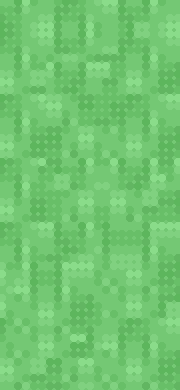
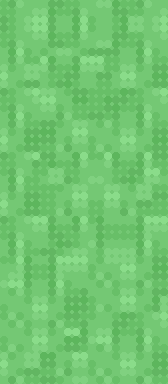
Rolling numbers and bg movement initialized

diff --git a/frontend/app/pages/LoginPage.tsx b/frontend/app/pages/LoginPage.tsx
@@ -7,9 +7,13 @@ import { SettingsPage } from "./SettingsPage";
 import {
   Canvas,
   Image,
+  ImageShader,
+  Rect,
+  Offset,
   FilterMode,
   MipmapMode,
 } from "@shopify/react-native-skia";
+import { withTiming, Easing, useDerivedValue, useSharedValue } from "react-native-reanimated";
 import { SafeAreaView } from "react-native-safe-area-context";
 
 export const LoginPage: React.FC = () => {
@@ -29,38 +33,112 @@ export const LoginPage: React.FC = () => {
     setCurrentPage(page as keyof typeof loginPages);
   };
 
+  const bgOffsetX = useSharedValue(0);
+  const bgOffsetY = useSharedValue(0);
+  // Every 3-5 seconds choose a new background offset
+  React.useEffect(() => {
+    const minTravelTime = 5000;
+    const maxTravelTime = 8000;
+    let travelDuration = minTravelTime + Math.random() * (maxTravelTime - minTravelTime);
+    const travelDistance = width * (travelDuration / maxTravelTime);
+    const travelDirectionRadians = Math.random() * 2 * Math.PI;
+    const travelDirectionX = Math.cos(travelDirectionRadians) * travelDistance;
+    const travelDirectionY = Math.sin(travelDirectionRadians) * travelDistance;
+    const newOffsetX = withTiming(bgOffsetX.value + travelDirectionX, { duration: travelDuration, easing: Easing.bezier(0.55, -0.33, 0.71, 1.03) });
+    const newOffsetY = withTiming(bgOffsetY.value + travelDirectionY, { duration: travelDuration, easing: Easing.bezier(0.55, -0.33, 0.71, 1.03) });
+    bgOffsetX.value = newOffsetX;
+    bgOffsetY.value = newOffsetY;
+
+    const interval = setInterval(() => {
+      travelDuration = minTravelTime + Math.random() * (maxTravelTime - minTravelTime);
+      const travelDistance = width * (travelDuration / maxTravelTime);
+      const travelDirectionRadians = Math.random() * 2 * Math.PI;
+      const travelDirectionX = Math.cos(travelDirectionRadians) * travelDistance;
+      const travelDirectionY = Math.sin(travelDirectionRadians) * travelDistance;
+      bgOffsetX.value = withTiming(bgOffsetX.value + travelDirectionX, { duration: travelDuration, easing: Easing.bezier(0.55, -0.33, 0.71, 1.03) });
+      bgOffsetY.value = withTiming(bgOffsetY.value + travelDirectionY, { duration: travelDuration, easing: Easing.bezier(0.55, -0.33, 0.71, 1.03) });
+    }, travelDuration); 
+    return () => clearInterval(interval);
+  }, [bgOffsetX, bgOffsetY, width]);
+
+  const animatedRect = useDerivedValue(() => {
+    return {
+      x: bgOffsetX.value,
+      y: bgOffsetY.value,
+      width: width,
+      height: height,
+    };
+  });
+
+  const bgOffsetX2 = useSharedValue(0);
+  const bgOffsetY2 = useSharedValue(0);
+  React.useEffect(() => {
+    const minTravelTime = 6000;
+    const maxTravelTime = 9000;
+    let travelDuration = minTravelTime + Math.random() * (maxTravelTime - minTravelTime);
+    const travelDistance = width * (travelDuration / maxTravelTime);
+    const travelDirectionRadians = Math.random() * 2 * Math.PI;
+    const travelDirectionX = Math.cos(travelDirectionRadians) * travelDistance;
+    const travelDirectionY = Math.sin(travelDirectionRadians) * travelDistance;
+    const newOffsetX2 = withTiming(bgOffsetX2.value + travelDirectionX, { duration: travelDuration, easing: Easing.bezier(0.55, -0.33, 0.71, 1.03) });
+    const newOffsetY2 = withTiming(bgOffsetY2.value + travelDirectionY, { duration: travelDuration, easing: Easing.bezier(0.55, -0.33, 0.71, 1.03) });
+    bgOffsetX2.value = newOffsetX2;
+    bgOffsetY2.value = newOffsetY2;
+
+    const interval = setInterval(() => {
+      travelDuration = minTravelTime + Math.random() * (maxTravelTime - minTravelTime);
+      const travelDistance = width * (travelDuration / maxTravelTime);
+      const travelDirectionRadians = Math.random() * 2 * Math.PI;
+      const travelDirectionX = Math.cos(travelDirectionRadians) * travelDistance;
+      const travelDirectionY = Math.sin(travelDirectionRadians) * travelDistance;
+      bgOffsetX2.value = withTiming(bgOffsetX2.value + travelDirectionX, { duration: travelDuration, easing: Easing.bezier(0.55, -0.33, 0.71, 1.03) });
+      bgOffsetY2.value = withTiming(bgOffsetY2.value + travelDirectionY, { duration: travelDuration, easing: Easing.bezier(0.55, -0.33, 0.71, 1.03) });
+    }, travelDuration); 
+    return () => clearInterval(interval);
+  }, [bgOffsetX2, bgOffsetY2, width]);
+  const animatedRect2 = useDerivedValue(() => {
+    return {
+      x: bgOffsetX2.value,
+      y: bgOffsetY2.value,
+      width: width,
+      height: height,
+    };
+  });
+
   return (
     <View className="flex-1 items-center">
       <View className="absolute w-full h-full">
         <Canvas style={{ flex: 1 }} className="w-full h-full">
-          <Image
-            image={getImage("background")}
-            fit="cover"
-            x={0}
-            y={0}
-            width={width}
-            height={height}
-            sampling={{
-              filter: FilterMode.Nearest,
-              mipmap: MipmapMode.Nearest,
-            }}
-          />
+          <Rect x={0} y={0} width={width} height={height}>
+            <ImageShader
+              image={getImage("background")}
+              fit="cover"
+              rect={animatedRect}
+              tx={"repeat"}
+              ty={"repeat"}
+              sampling={{
+                filter: FilterMode.Nearest,
+                mipmap: MipmapMode.Nearest,
+              }}
+            />
+          </Rect>
         </Canvas>
       </View>
       <View className="absolute w-full h-full">
         <Canvas style={{ flex: 1 }} className="w-full h-full">
-          <Image
-            image={getImage("background.grid")}
-            fit="cover"
-            x={0}
-            y={0}
-            width={width}
-            height={height}
-            sampling={{
-              filter: FilterMode.Nearest,
-              mipmap: MipmapMode.Nearest,
-            }}
-          />
+          <Rect x={0} y={0} width={width} height={height}>
+            <ImageShader
+              image={getImage("background.grid")}
+              fit="cover"
+              rect={animatedRect2}
+              tx={"repeat"}
+              ty={"repeat"}
+              sampling={{
+                filter: FilterMode.Nearest,
+                mipmap: MipmapMode.Nearest,
+              }}
+            />
+          </Rect>
         </Canvas>
       </View>
       <SafeAreaView>

diff --git a/frontend/app/pages/MainPage.tsx b/frontend/app/pages/MainPage.tsx
@@ -7,9 +7,12 @@ import { L2Phase } from "./main/L2Phase";
 import {
   Canvas,
   Image,
+  ImageShader,
+  Rect,
   FilterMode,
   MipmapMode,
 } from "@shopify/react-native-skia";
+import { withTiming, Easing, useDerivedValue, useSharedValue } from "react-native-reanimated";
 
 export const MainPage: React.FC = () => {
   const { l2 } = useGame();
@@ -21,38 +24,112 @@ export const MainPage: React.FC = () => {
     setCurrentView(l2 ? "L2" : "L1");
   }, [l2]);
 
+  const bgOffsetX = useSharedValue(0);
+  const bgOffsetY = useSharedValue(0);
+  // Every 3-5 seconds choose a new background offset
+  React.useEffect(() => {
+    const minTravelTime = 5000;
+    const maxTravelTime = 8000;
+    let travelDuration = minTravelTime + Math.random() * (maxTravelTime - minTravelTime);
+    const travelDistance = width * (travelDuration / maxTravelTime);
+    const travelDirectionRadians = Math.random() * 2 * Math.PI;
+    const travelDirectionX = Math.cos(travelDirectionRadians) * travelDistance;
+    const travelDirectionY = Math.sin(travelDirectionRadians) * travelDistance;
+    const newOffsetX = withTiming(bgOffsetX.value + travelDirectionX, { duration: travelDuration, easing: Easing.bezier(0.55, -0.33, 0.71, 1.03) });
+    const newOffsetY = withTiming(bgOffsetY.value + travelDirectionY, { duration: travelDuration, easing: Easing.bezier(0.55, -0.33, 0.71, 1.03) });
+    bgOffsetX.value = newOffsetX;
+    bgOffsetY.value = newOffsetY;
+
+    const interval = setInterval(() => {
+      travelDuration = minTravelTime + Math.random() * (maxTravelTime - minTravelTime);
+      const travelDistance = width * (travelDuration / maxTravelTime);
+      const travelDirectionRadians = Math.random() * 2 * Math.PI;
+      const travelDirectionX = Math.cos(travelDirectionRadians) * travelDistance;
+      const travelDirectionY = Math.sin(travelDirectionRadians) * travelDistance;
+      bgOffsetX.value = withTiming(bgOffsetX.value + travelDirectionX, { duration: travelDuration, easing: Easing.bezier(0.55, -0.33, 0.71, 1.03) });
+      bgOffsetY.value = withTiming(bgOffsetY.value + travelDirectionY, { duration: travelDuration, easing: Easing.bezier(0.55, -0.33, 0.71, 1.03) });
+    }, travelDuration); 
+    return () => clearInterval(interval);
+  }, [bgOffsetX, bgOffsetY, width]);
+
+  const animatedRect = useDerivedValue(() => {
+    return {
+      x: bgOffsetX.value,
+      y: bgOffsetY.value,
+      width: width,
+      height: height,
+    };
+  });
+
+  const bgOffsetX2 = useSharedValue(0);
+  const bgOffsetY2 = useSharedValue(0);
+  React.useEffect(() => {
+    const minTravelTime = 6000;
+    const maxTravelTime = 9000;
+    let travelDuration = minTravelTime + Math.random() * (maxTravelTime - minTravelTime);
+    const travelDistance = width * (travelDuration / maxTravelTime);
+    const travelDirectionRadians = Math.random() * 2 * Math.PI;
+    const travelDirectionX = Math.cos(travelDirectionRadians) * travelDistance;
+    const travelDirectionY = Math.sin(travelDirectionRadians) * travelDistance;
+    const newOffsetX2 = withTiming(bgOffsetX2.value + travelDirectionX, { duration: travelDuration, easing: Easing.bezier(0.55, -0.33, 0.71, 1.03) });
+    const newOffsetY2 = withTiming(bgOffsetY2.value + travelDirectionY, { duration: travelDuration, easing: Easing.bezier(0.55, -0.33, 0.71, 1.03) });
+    bgOffsetX2.value = newOffsetX2;
+    bgOffsetY2.value = newOffsetY2;
+
+    const interval = setInterval(() => {
+      travelDuration = minTravelTime + Math.random() * (maxTravelTime - minTravelTime);
+      const travelDistance = width * (travelDuration / maxTravelTime);
+      const travelDirectionRadians = Math.random() * 2 * Math.PI;
+      const travelDirectionX = Math.cos(travelDirectionRadians) * travelDistance;
+      const travelDirectionY = Math.sin(travelDirectionRadians) * travelDistance;
+      bgOffsetX2.value = withTiming(bgOffsetX2.value + travelDirectionX, { duration: travelDuration, easing: Easing.bezier(0.55, -0.33, 0.71, 1.03) });
+      bgOffsetY2.value = withTiming(bgOffsetY2.value + travelDirectionY, { duration: travelDuration, easing: Easing.bezier(0.55, -0.33, 0.71, 1.03) });
+    }, travelDuration); 
+    return () => clearInterval(interval);
+  }, [bgOffsetX2, bgOffsetY2, width]);
+  const animatedRect2 = useDerivedValue(() => {
+    return {
+      x: bgOffsetX2.value,
+      y: bgOffsetY2.value,
+      width: width,
+      height: height,
+    };
+  });
+
   return (
     <View className="flex-1 relative">
       <View className="absolute w-full h-full">
         <Canvas style={{ flex: 1 }} className="w-full h-full">
-          <Image
-            image={getImage("background")}
-            fit="cover"
-            x={0}
-            y={0}
-            width={width}
-            height={height}
-            sampling={{
-              filter: FilterMode.Nearest,
-              mipmap: MipmapMode.Nearest,
-            }}
-          />
+          <Rect x={0} y={0} width={width} height={height}>
+            <ImageShader
+              image={getImage("background")}
+              fit="cover"
+              rect={animatedRect}
+              tx={"repeat"}
+              ty={"repeat"}
+              sampling={{
+                filter: FilterMode.Nearest,
+                mipmap: MipmapMode.Nearest,
+              }}
+            />
+          </Rect>
         </Canvas>
       </View>
       <View className="absolute w-full h-full">
         <Canvas style={{ flex: 1 }} className="w-full h-full">
-          <Image
-            image={getImage("background.grid")}
-            fit="cover"
-            x={0}
-            y={0}
-            width={width}
-            height={height}
-            sampling={{
-              filter: FilterMode.Nearest,
-              mipmap: MipmapMode.Nearest,
-            }}
-          />
+          <Rect x={0} y={0} width={width} height={height}>
+            <ImageShader
+              image={getImage("background.grid")}
+              fit="cover"
+              rect={animatedRect2}
+              tx={"repeat"}
+              ty={"repeat"}
+              sampling={{
+                filter: FilterMode.Nearest,
+                mipmap: MipmapMode.Nearest,
+              }}
+            />
+          </Rect>
         </Canvas>
       </View>
       {l2 && (

diff --git a/frontend/app/components/WorkingBlockView.tsx b/frontend/app/components/WorkingBlockView.tsx
@@ -6,7 +6,8 @@ import { useImageProvider } from "../context/ImageProvider";
 import { BlockView } from "./BlockView";
 import { Miner } from "./Miner";
 import { Sequencer } from "./Sequencer";
-import { shortMoneyString } from "../utils/helpers";
+import { Easing } from "react-native-reanimated";
+import { AnimatedRollingNumber } from "react-native-animated-rolling-numbers";
 import {
   Canvas,
   Image,
@@ -62,23 +63,27 @@ export const WorkingBlockView: React.FC<WorkingBlockViewProps> = (props) => {
         >
           Block {workingBlocks[props.chainId]?.blockId}
         </Text>
-        <Text
-          className="text-[20px] text-[#c3c3c3] font-Pixels
-                         absolute bottom-[10px] left-[170px]"
-        >
-          {workingBlocks[props.chainId]?.transactions.length}/
-          {getUpgradeValue(props.chainId, "Block Size") ** 2}
-        </Text>
-        <Text
-          className="text-[20px] text-[#fff7ff] font-Pixels
-                         absolute bottom-[10px] left-[280px]"
-        >
-          {shortMoneyString(
-            workingBlocks[props.chainId]?.fees +
-              (workingBlocks[props.chainId]?.reward ||
-                getUpgradeValue(props.chainId, "Block Reward")),
-          )}
-        </Text>
+        <View className="absolute bottom-[10px] left-[170px] flex flex-row">
+          <AnimatedRollingNumber
+            value={workingBlocks[props.chainId]?.transactions.length}
+            textStyle={{ fontSize: 20, color: "#c3c3c3", fontFamily: "Pixels" }}
+            spinningAnimationConfig={{ duration: 400, easing: Easing.bounce }}
+          />
+          <Text className="text-[20px] text-[#c3c3c3] font-Pixels">
+            /{getUpgradeValue(props.chainId, "Block Size") ** 2}
+          </Text>
+        </View>
+        <View className="absolute bottom-[10px] left-[280px]">
+          <AnimatedRollingNumber
+            value={workingBlocks[props.chainId]?.fees +
+                   (workingBlocks[props.chainId]?.reward ||
+                    getUpgradeValue(props.chainId, "Block Reward"))}
+            enableCompactNotation
+            compactToFixed={1}
+            textStyle={{ fontSize: 20, color: "#fff2fdff", fontFamily: "Pixels" }}
+            spinningAnimationConfig={{ duration: 400, easing: Easing.bounce }}
+          />
+        </View>
       </View>
     </View>
   );

diff --git a/frontend/app/components/Header.tsx b/frontend/app/components/Header.tsx
@@ -7,10 +7,11 @@ import {
   MipmapMode,
 } from "@shopify/react-native-skia";
 import { useSafeAreaInsets } from "react-native-safe-area-context";
+import { Easing } from "react-native-reanimated";
+import { AnimatedRollingNumber } from "react-native-animated-rolling-numbers";
 import { useBalance } from "../context/Balance";
 import { useGame } from "../context/Game";
 import { useImageProvider } from "../context/ImageProvider";
-import { shortMoneyString } from "../utils/helpers";
 
 export const Header: React.FC = () => {
   const { balance } = useBalance();
@@ -37,9 +38,13 @@ export const Header: React.FC = () => {
         />
       </Canvas>
       <View className="absolute right-0 h-full flex items-center justify-center pr-3">
-        <Text className="text-[#fff2fdff] text-5xl font-Xerxes">
-          {shortMoneyString(balance)}
-        </Text>
+        <AnimatedRollingNumber
+          value={balance}
+          enableCompactNotation
+          compactToFixed={2}
+          textStyle={{ fontSize: 50, color: "#fff2fdff", fontFamily: "Xerxes" }}
+          spinningAnimationConfig={{ duration: 400, easing: Easing.bounce }}
+        />
       </View>
     </View>
   );
